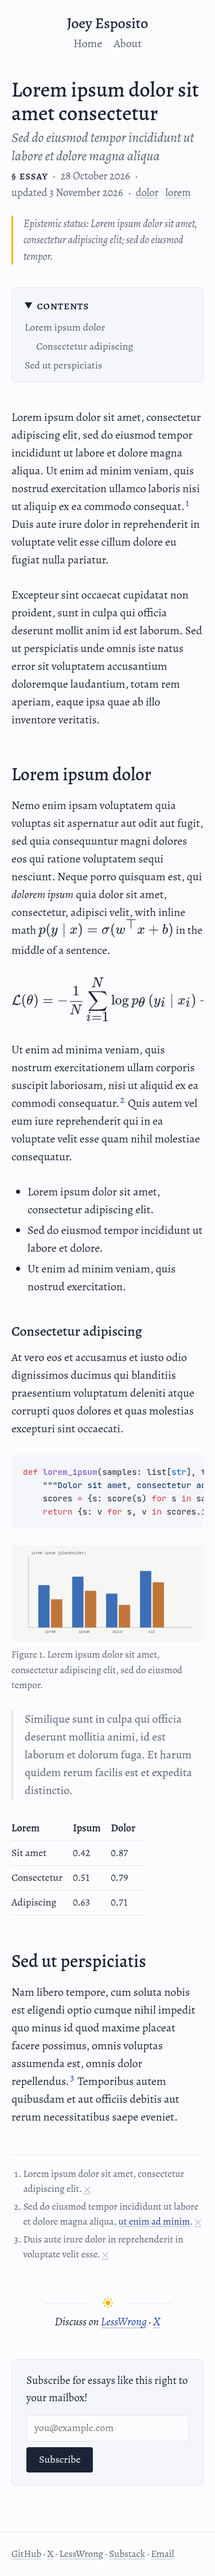
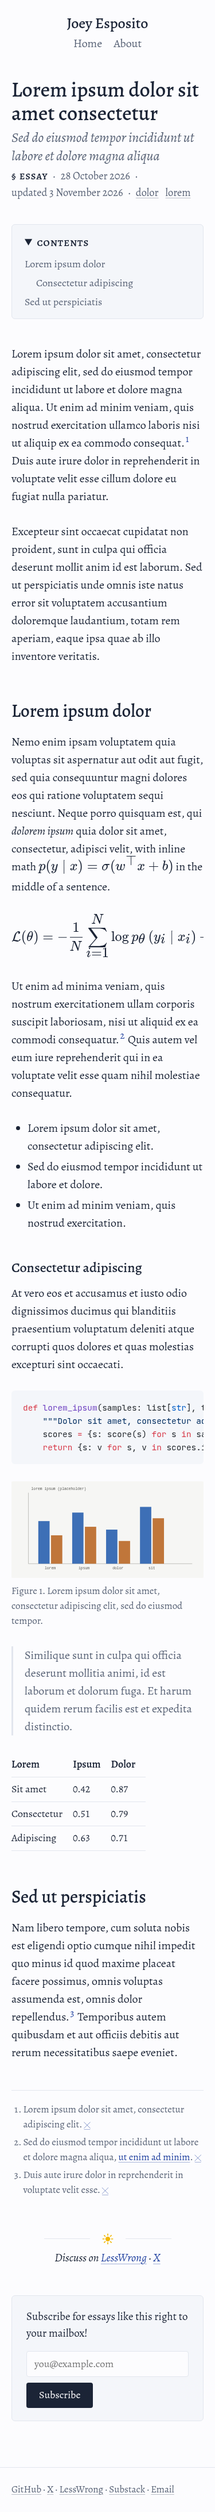
Drop the epistemic status and LessWrong feed fields
Posts no longer take `epistemic` or `lesswrong`. The epistemic status line is
unused, and LessWrong copies are made by hand as drafts rather than imported, so
the `/feeds/lesswrong.xml` feed and the flag that filled it go too. The schema
stays strict, so a post still carrying either field fails the build.
`syndication.lesswrong` (the published post's URL) is unchanged.

Updates the sample posts, the essay screenshots, README, DESIGN and AGENTS notes.

diff --git a/src/styles/global.css b/src/styles/global.css
@@ -255,7 +255,6 @@ body:has(.prose-page) .site-footer { margin-top: 2rem; }
 .post-meta a { color: var(--muted); }
 .post-meta .type { font-size: 0.95rem; color: var(--fg); }
 .post-tags { display: inline-flex; gap: 0.6rem; }
-.epistemic { margin: 1.25rem 0 0; padding-left: 0.9rem; border-left: 3px solid var(--sun); font-size: 0.92rem; font-style: italic; color: var(--muted); }
 .post-body :is(h2, h3) { scroll-margin-top: 1.5rem; }
 
 .toc { margin: 0 0 2.25rem; padding: 0.8rem 1.1rem; font-size: 0.9rem; line-height: 1.45; background: var(--code-bg); border: 1px solid var(--rule); border-radius: var(--radius); }

diff --git a/src/content.config.ts b/src/content.config.ts
@@ -15,10 +15,7 @@ const posts = defineCollection({
       subtitle: z.string().optional(),
       date: z.coerce.date(),
       updated: z.coerce.date().optional(),
-      epistemic: z.string().optional(),
       tags: z.array(z.string()).default([]),
-      // Adds the post to the full-content feed that LessWrong imports.
-      lesswrong: z.boolean().default(false),
       // Marks a report-style essay: adds citation_* meta tags so Google Scholar can index it.
       report: z.boolean().default(false),
       // A project's repo or demo.

diff --git a/DESIGN.md b/DESIGN.md
@@ -97,7 +97,7 @@ Meta 0.85–0.92rem. Inline code 0.8em; code blocks 0.72rem (14.4px).
 | Intro | `src/components/Intro.astro` | Prose paragraph in Joey's voice. The first words are set in small capitals (`.lede strong`). Links are underlined in sunflower; topic links open the list pre-filtered (`/?tag=…#writing`). No drop cap. |
 | PostFilters | `src/components/PostFilters.astro` | Radio groups Type (All/Essays/Projects/Notes), Topic (tags by frequency), Sort (Newest/Most popular). The post count is read to screen readers but not shown, except to say view counts are loading or unavailable. Hidden until its script runs. A type with no posts in the chosen topic fades. State is mirrored in the query string, so filtered views are linkable. Sort always shows "Newest"; "Most popular" appears once `VIEWS_URL` is set, and fetches the view counts once, and if they fail to load the list falls back to newest and says so. When nothing matches, "Nothing matches. Show everything" stands where the list would begin, in the first year divider's place and centred like it. |
 | PostList | `src/components/PostList.astro` | Under a "Writing" heading (centred below 80rem). Year dividers (centred year between hairlines) and ruled entries, spaced alike. At every width an entry's title, subtitle and topics are flush with the text's left edge, and its date, with the type directly beneath, stands at the right edge, the date's top level with the title's (both trimmed to the top of their letters with `text-box`); a year's divider takes the place of the rule under the entry above it, and the footer's rule closes the list: a title column (title link, a project's "→ host" repo link in mono, essay subtitle in italic, topic links in mono) and, at the right, a date column (date, type mark). Sorted by views, the dividers disappear and each date shows its year. |
-| Article | `src/components/Article.astro` | Post header (title, then subtitle and meta line set close beneath it, then epistemic status), contents, body, end mark, discussion links, signup. |
+| Article | `src/components/Article.astro` | Post header (title, then subtitle and meta line set close beneath it), contents, body, end mark, discussion links, signup. |
 | Contents | `src/components/Contents.astro` | Essays with two or more headings. Box above the text on narrow screens; sticky right rail on wide ones. |
 | EndMark | `src/components/EndMark.astro` | Small sun between two short rules, closing an essay. |
 | DiscussLinks | `src/components/DiscussLinks.astro` | "Discuss on LessWrong · X", centred italic, from the post's syndication URLs; set just under the end mark (8px below the sun). |

diff --git a/README.md b/README.md
@@ -31,10 +31,8 @@ Posts are Markdown files in `src/content/posts/`. The file name is the URL slug
 | `subtitle` | text | Shown under the title and in the feeds |
 | `date` | `YYYY-MM-DD` | Required |
 | `updated` | `YYYY-MM-DD` | |
-| `epistemic` | text | Epistemic status line |
 | `tags` | list | Topics; the home page filters by them |
 | `url` | URL | Projects only: the repo or demo, shown as "→ host" in the list and the post header |
-| `lesswrong` | `true`/`false` | Adds the post to `/feeds/lesswrong.xml`, which LessWrong imports |
 | `report` | `true`/`false` | On an essay, adds `citation_*` meta tags for Google Scholar |
 | `syndication` | `lesswrong`, `substack`, `x`, `linkedin` URLs | LessWrong and X show as "Discuss on" links |
 
@@ -67,7 +65,6 @@ between `$…$` or `$$…$$`; KaTeX's stylesheet loads only on posts that use it
 |---|---|
 | `/feeds/all.xml` | Every post, full text |
 | `/feeds/essays.xml` | Essays, full text |
-| `/feeds/lesswrong.xml` | Posts with `lesswrong: true`, full text. LessWrong imports this URL; do not move it. |
 | `/llms.txt` | The site in the [llms.txt](https://llmstxt.org) format |
 | `/robots.txt`, `/sitemap-index.xml` | Crawlers |
 | `/og/<slug>.png` | Social card for each post |

diff --git a/AGENTS.md b/AGENTS.md
@@ -12,7 +12,7 @@ DESIGN.md for every token, component and page.
 - src/layouts/Base.astro, src/components/: layout and components
 - src/config.ts: site name, nav, profile links, SUBSTACK_URL, SUBSTACK_SIGNUP
 - src/content.config.ts: the post schema
-- src/lib/feed.ts, src/pages/feeds/: RSS feeds; /feeds/lesswrong.xml is registered with LessWrong, so keep its path and guids
+- src/lib/feed.ts, src/pages/feeds/: RSS feeds; keep their paths and guids, which subscribers depend on
 - scripts/check-dist.mjs, scripts/check-feeds.mjs, lychee.toml: checks run in CI
 - .github/workflows/site.yml: build, check, deploy
 - scripts/screenshots.mjs: page screenshots into design/screenshots/

diff --git a/design/sample-posts/lorem-ipsum-dolor-sit-amet.md b/design/sample-posts/lorem-ipsum-dolor-sit-amet.md
@@ -4,9 +4,7 @@ title: Lorem ipsum dolor sit amet consectetur
 subtitle: Sed do eiusmod tempor incididunt ut labore et dolore magna aliqua
 date: 2026-10-28
 updated: 2026-11-03
-epistemic: Lorem ipsum dolor sit amet, consectetur adipiscing elit; sed do eiusmod tempor.
 tags: [dolor, lorem]
-lesswrong: true
 syndication:
   lesswrong: https://www.lesswrong.com/posts/placeholder/lorem-ipsum-dolor-sit-amet
   x: https://x.com/joesposito8/status/1000000000000000000

diff --git a/design/sample-posts/sed-ut-perspiciatis-unde.md b/design/sample-posts/sed-ut-perspiciatis-unde.md
@@ -3,9 +3,7 @@ type: essay
 title: Sed ut perspiciatis unde omnis iste natus
 subtitle: Nemo enim ipsam voluptatem quia voluptas sit aspernatur
 date: 2026-08-14
-epistemic: Lorem ipsum dolor sit amet; consectetur adipiscing elit.
 tags: [ipsum, lorem]
-lesswrong: true
 report: true
 ---
 
